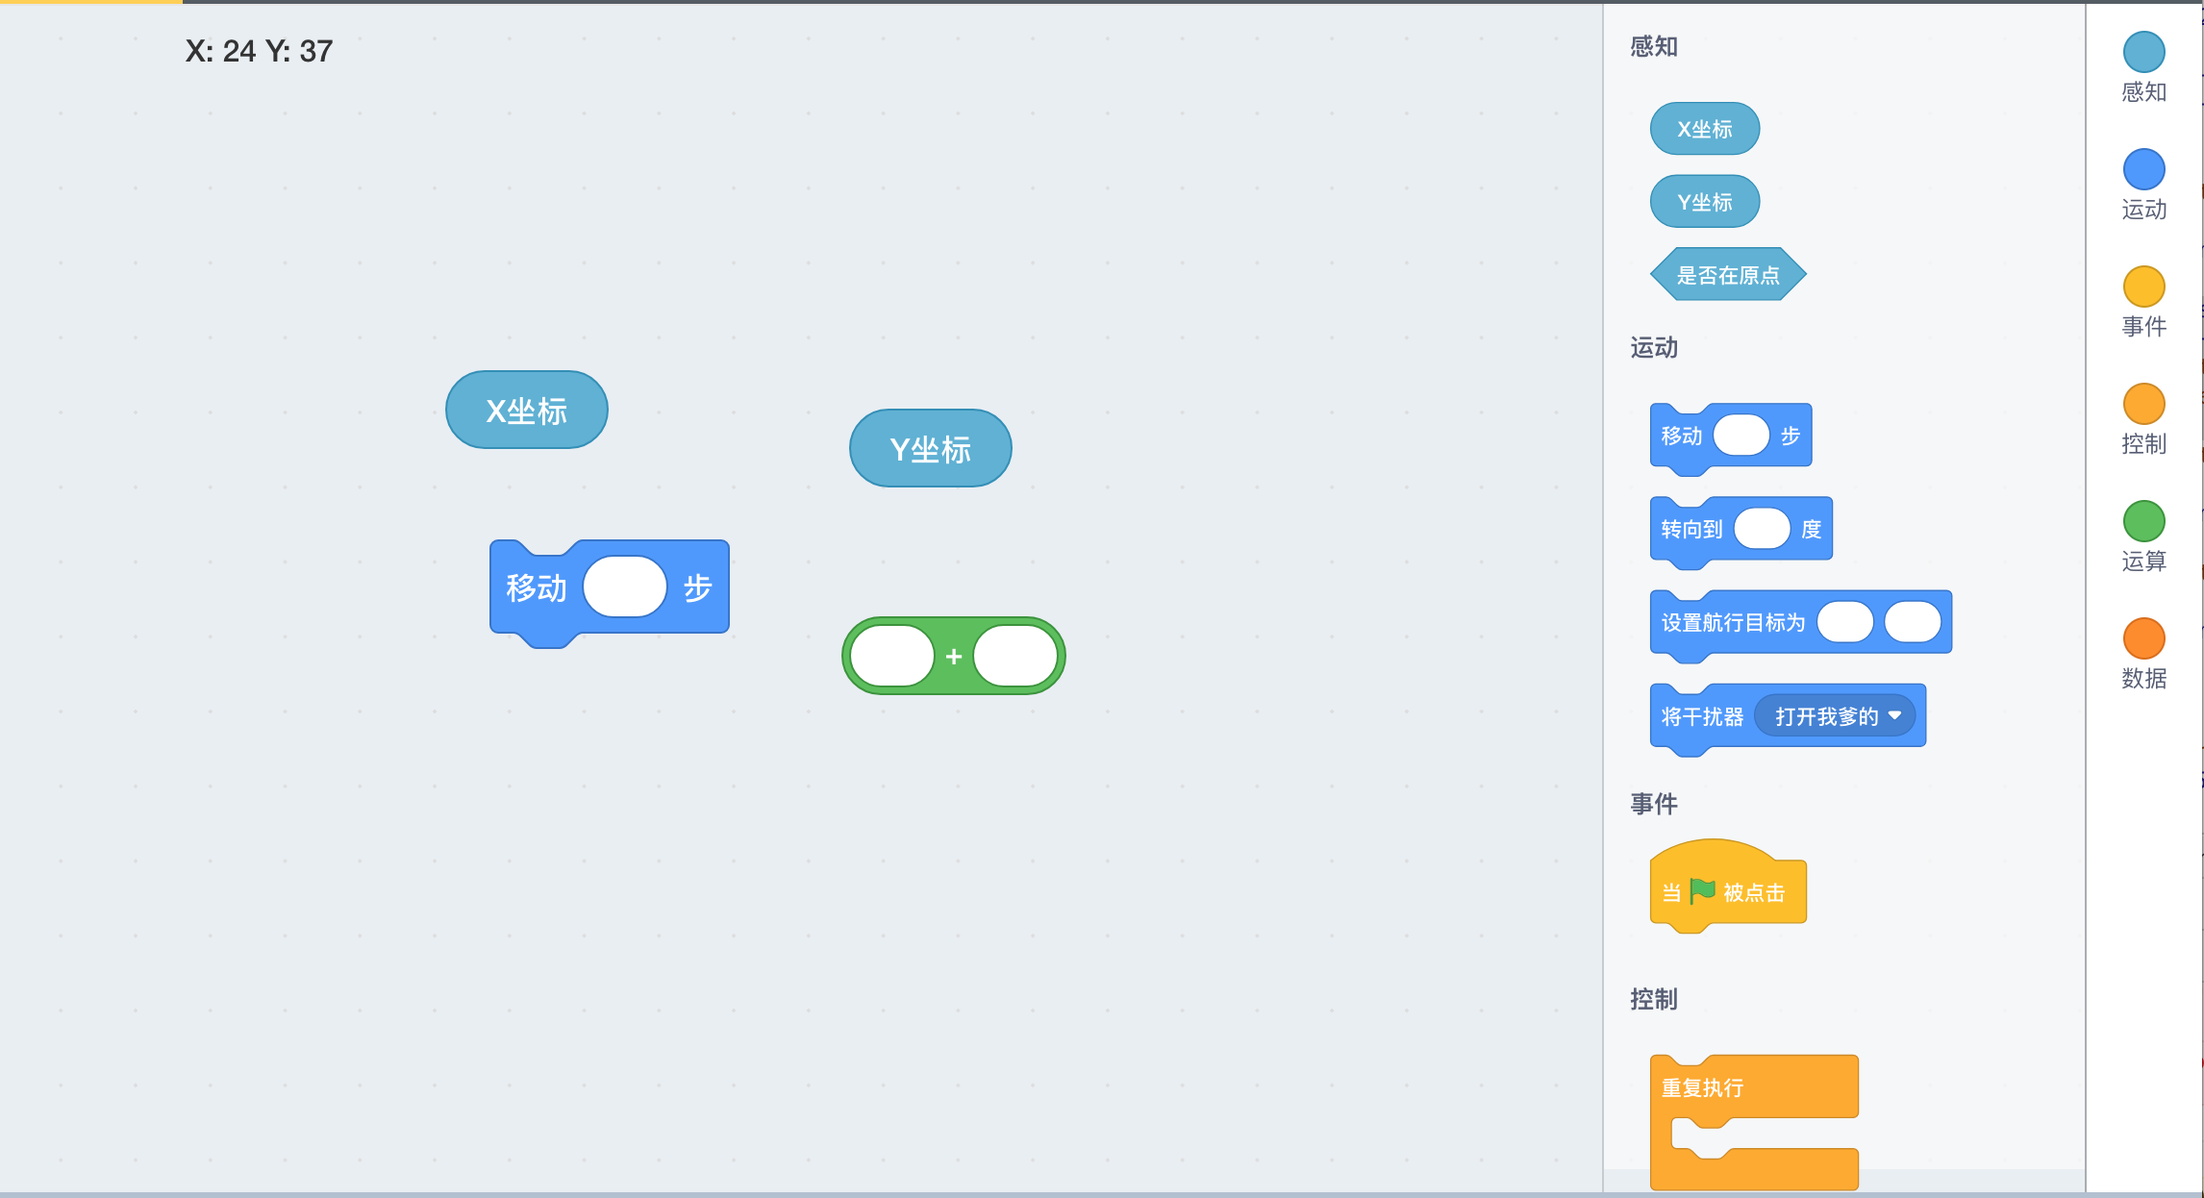
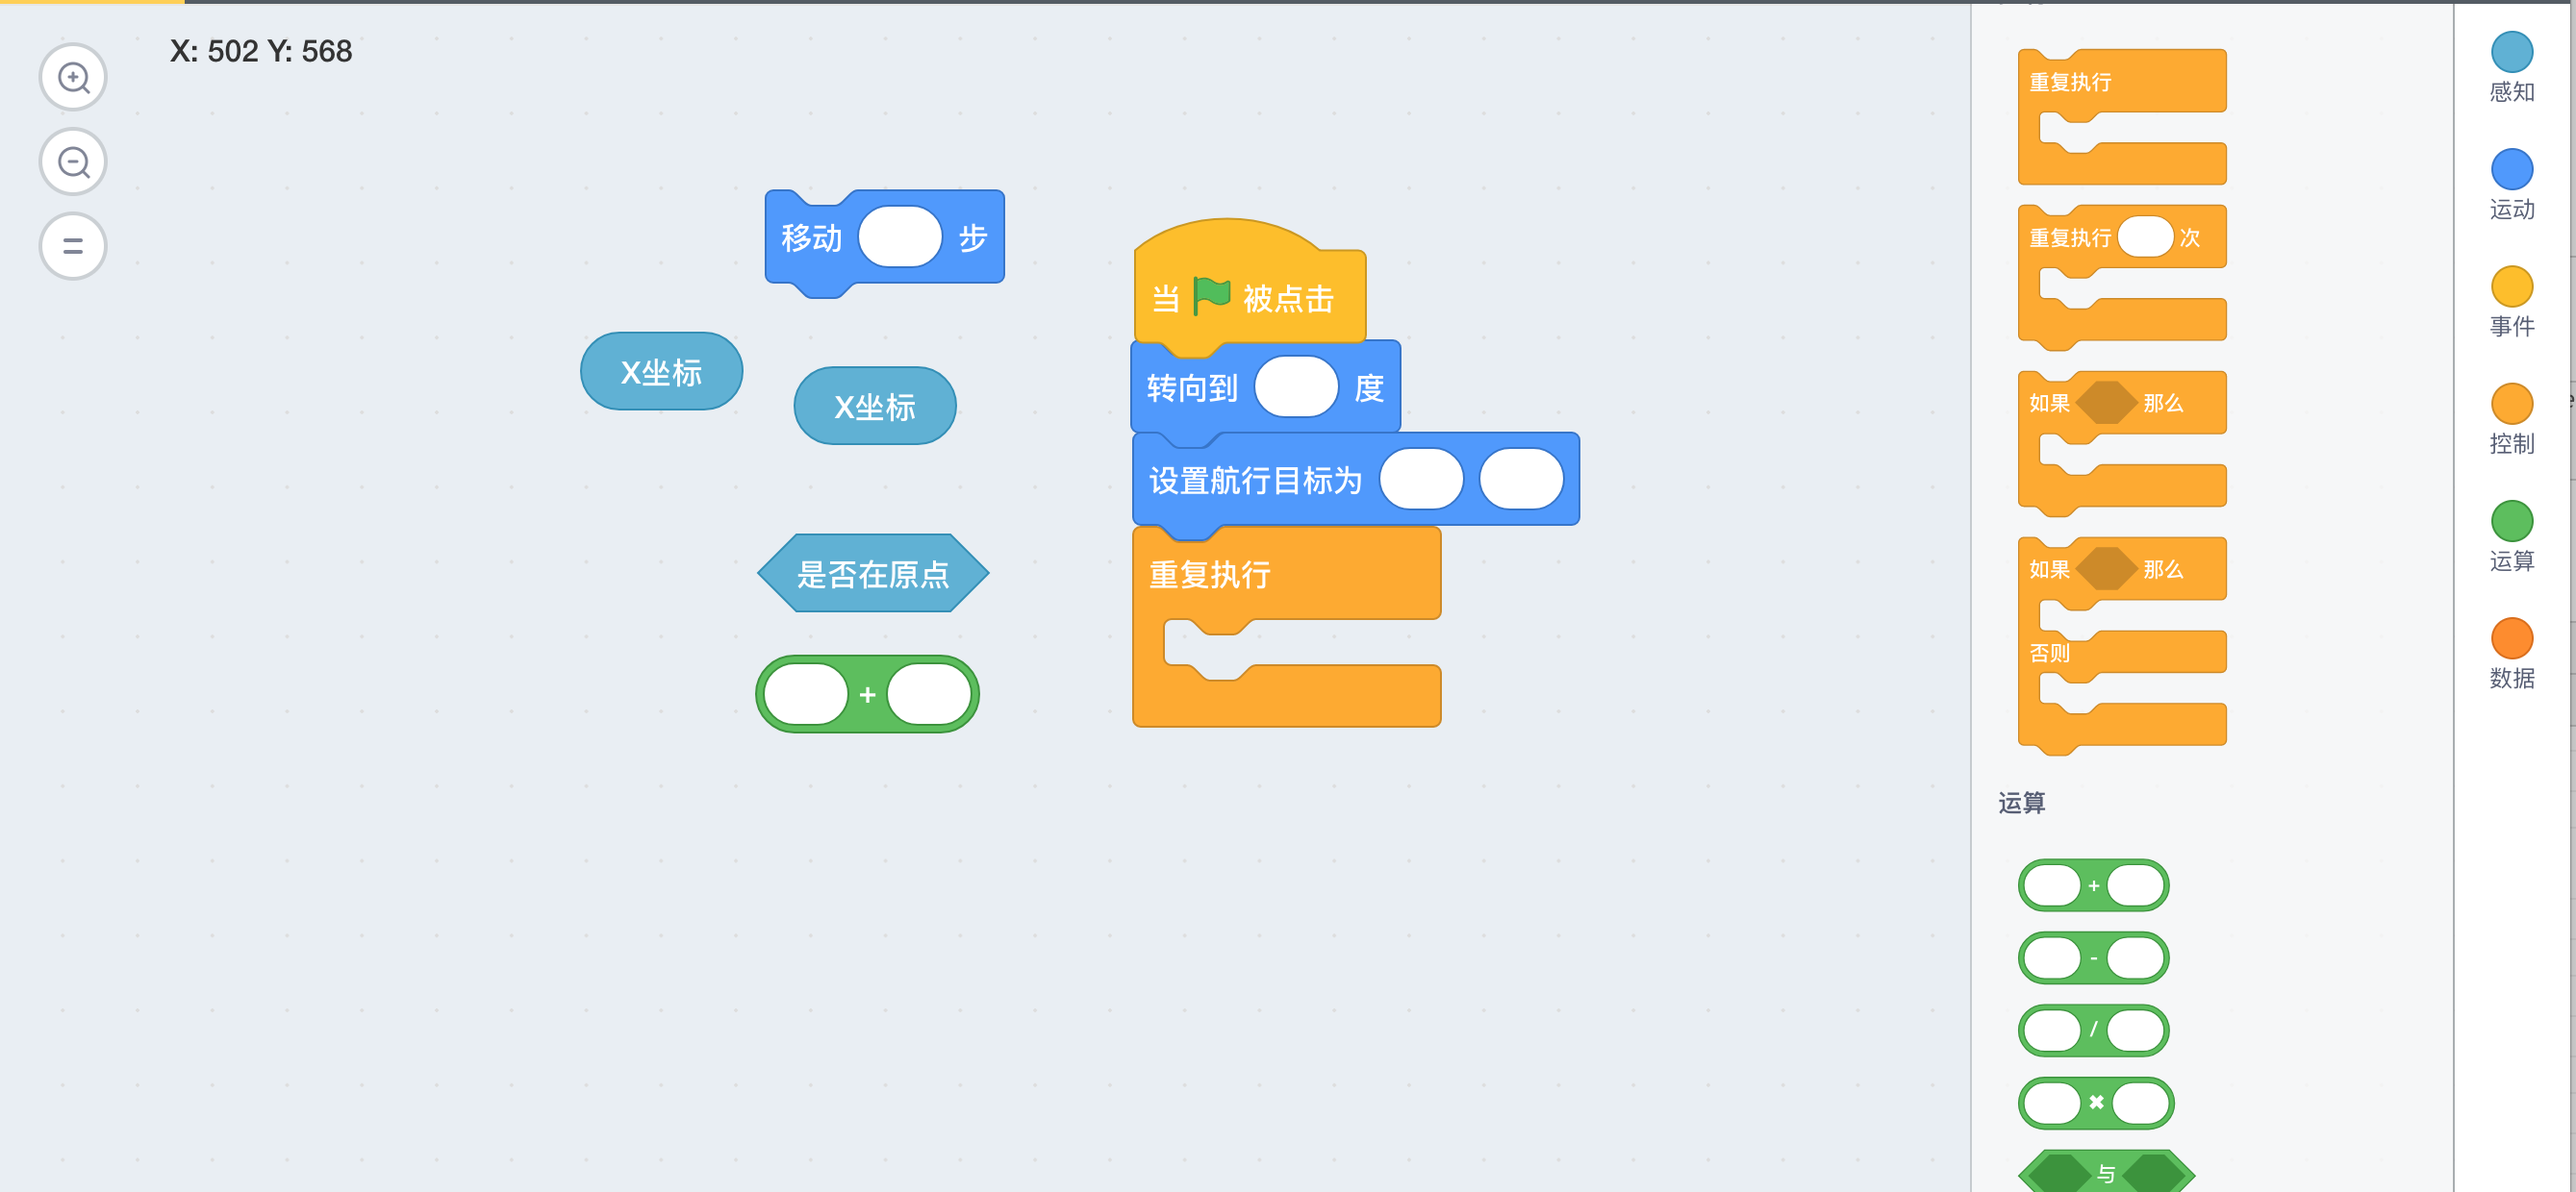
实现工具栏拖放

diff --git a/client/src/scratch.js b/client/src/scratch.js
@@ -1279,6 +1279,30 @@ class BlockInstance {
       translatey: yuchg.isNumber(this.state.y) ? this.state.y : 0
     }])
   }
+
+  // next为true时，删除所有nextBlock
+  // 为false时，仅删除自己，nextBlock上移
+  clear(next = true) {
+    // 删除子节点children
+    for (let c of this.children.values()) {
+      c.clear()
+    }
+    // 删除next
+    if (this.next) {
+      if (next) {
+        this.next.clear()
+      } else {
+        this.next.prev = this.prev
+      }
+    }
+    let index = this.proto.instances.indexOf(this)
+    if (index >= 0) {
+      this.proto.instances.splice(index, 1)
+    }
+    this.elem.remove()
+
+    // 通知父对象更新
+  }
 }
 
 /*
@@ -2268,7 +2292,7 @@ class Panel {
     this.marker = null
 
     this.registries = {} // block注册列表
-    this.instances = [] // block实例数组
+    this.instances = {} // block实例数组
 
     this.grapPoint = {
       x: 0,
@@ -2315,13 +2339,15 @@ class Panel {
       this.lastPoint.x = event.pageX
       this.lastPoint.y = event.pageY
       this.startDrag = true
-      return false
+      this.dom.$flyout.css('pointer-events', 'none')
     }).on('mousemove', function () {
+      logger.debug('canvas mousemove')
       let X = $(this).offset().left
       let Y = $(this).offset().top
+      let cm = that.dom.$canvas[0].getCTM()
       that.updateInfo({
-        x: event.pageX - X,
-        y: event.pageY - Y
+        x: event.pageX - X - Number(cm.e),
+        y: event.pageY - Y - Number(cm.f)
       })
 
       let deltaX = event.pageX - that.lastPoint.x
@@ -2346,19 +2372,30 @@ class Panel {
         // 根据鼠标位置调整surface
         that.dom.$dragsurface.attr('style', 'display: block; transform: translate3d(' + deltaX + 'px,' + deltaY + 'px,0px)')
       }
-    }).on('mouseup mouseleave', function () {
+    }).on('mouseup mouseleave', () => {
       that.startDrag = false
+      this.dom.$flyout.css('pointer-events', 'auto')
+
       if (that.$selected && that.$selected.hasClass('ycBlockSelected')) {
         if (that.$selected.hasClass('ycBlockDragging')) {
           // 插入占位
           var $marker = that.marker.element()
-          that.$selected.insertBefore($marker)
-          that.$selected.removeClass('ycBlockDragging')
+          // 判断是否在Flyout区域
+          if (this.isInFlyoutRegion(event.pageX, event.pageY)) {
+            // 删除Block实例
+            let uid = this.$selected.attr('data-uid')
+            this.removeBlock(uid)
+            that.$selected = null
+            return
+          } else {
+            that.$selected.insertBefore($marker)
+            that.$selected.removeClass('ycBlockDragging')
+            // 更新变换
+            let dm = that.dom.$dragsurface.css('transform').replace(/[^0-9\-,]/g, '').split(',')
+            let m = that.$selected[0].getCTM()
+            that.$selected.attr('transform', 'translate(' + (Number(dm[4]) + that.grapPoint.x) / Number(m.a) + ',' + (Number(dm[5]) + that.grapPoint.y) / Number(m.d) + ')')
+          }
           $marker.remove()
-          // 更新变换
-          let dm = that.dom.$dragsurface.css('transform').replace(/[^0-9\-,]/g, '').split(',')
-          let m = that.$selected[0].getCTM()
-          that.$selected.attr('transform', 'translate(' + (Number(dm[4]) + that.grapPoint.x) / Number(m.a) + ',' + (Number(dm[5]) + that.grapPoint.y) / Number(m.d) + ')')
           that.dom.$dragsurface.css('display', 'none;')
         }
         that.$selected.removeClass('ycBlockSelected')
@@ -2370,10 +2407,9 @@ class Panel {
       this.flyoutlastPoint.x = event.pageX
       this.flyoutlastPoint.y = event.pageY
       this.flyoutstartDrag = true
-      return false
     }).on('mousemove', function () {
       let deltaY = event.pageY - that.flyoutlastPoint.y
-      if (!that.$flyoutselected && that.flyoutstartDrag) {
+      if (!that.$flyoutselected && that.flyoutstartDrag) { // 上下滚动拖放
         that.flyoutlastPoint.x = event.pageX
         that.flyoutlastPoint.y = event.pageY
         let m = that.dom.$flyoutcanvas[0].getCTM()
@@ -2392,11 +2428,86 @@ class Panel {
         let trans = 'translate(0,' + y + ') ' + 'scale(' + that.flyoutZoomFactor + ')'
         that.setCanvasTransfrom(that.dom.$flyoutcanvasList, trans)
 
-      } else if (that.$flyoutselected && that.$flyoutselected.hasClass('ycBlockSelected')) {}
-    }).on('mouseup mouseleave', function () {
-      that.flyoutstartDrag = false
-      if (that.$flyoutselected && that.$flyoutselected.hasClass('ycBlockSelected')) {}
+      } else if (that.$flyoutselected) { // 拖动Block
+        // 获取选中的类型
+        let bid = that.$flyoutselected.attr('data-id')
+        let proto = that.registries[bid]
+
+        // 根据当前鼠标位置计算在SVG中位置
+        let X = that.dom.$svg.offset().left
+        let Y = that.dom.$svg.offset().top
+        let cm = that.dom.$canvas[0].getCTM()
+
+        // 根据Block尺寸调整位置
+        let bbox = that.$flyoutselected[0].getBBox()
+        that.grapPoint.x = event.pageX - bbox.width / 2 - X + bbox.x - Number(cm.e)
+        that.grapPoint.y = event.pageY - bbox.height / 2 - Y + bbox.y - Number(cm.f)
+   
+        logger.debug('drag ==', X, Y, event.pageX, event.pageY, bbox, that.grapPoint)
+
+        let newInst = that.addBlock({
+          type: proto.def.id,
+          state: {
+            x: that.grapPoint.x,
+            y: that.grapPoint.y
+          }
+        }, that.dom.$dragcanvas)
+
+        that.$selected = newInst.element()
+        that.$selected.addClass('ycBlockSelected')
+        that.$selected.addClass('ycBlockDragging')
+
+        
+        // 插入占位(在末尾添加)
+        var $marker = that.marker.element()
+        that.dom.$canvas.append($marker)
+
+        that.$flyoutselected = null
+        that.lastPoint.x = event.pageX
+        that.lastPoint.y = event.pageY
+        let deltaX = event.pageX - that.lastPoint.x
+        let deltaY = event.pageY - that.lastPoint.y
+        // 根据鼠标位置调整surface
+        that.dom.$dragsurface.attr('style', 'display: block; transform: translate3d(' + deltaX + 'px,' + deltaY + 'px,0px)')
+        that.dom.$dragsurface.css('display', 'block')
+  
+        that.startDrag = true
+        that.dom.$flyout.css('pointer-events', 'none')
+      }
+    }).on('mouseup mouseleave', () => {
+      this.flyoutstartDrag = false
+      if (this.$flyoutselected && this.$flyoutselected.hasClass('ycBlockSelected')) {
+
+      }
     })
+  }
+
+  // point 为屏幕坐标位置
+  isInFlyoutRegion(x, y) {
+    const dom = this.dom
+    let $bg = dom.$flyout.find('.ycBlockFlyoutBackground')
+    let bbox = $bg[0].getBBox()
+    let ctm = $bg[0].getScreenCTM()
+
+    let left = ctm.e + bbox.x
+    let right = left + bbox.width
+    let top = ctm.f + bbox.y
+    let bottom = top + bbox.height
+    return x >= left && x <= right && y >= top && y <= bottom
+  }
+
+  // point 为屏幕坐标位置
+  flyoutToCanvasRegion(x, y) {
+    const dom = this.dom
+    let $bg = dom.$flyout.find('.ycBlockFlyoutBackground')
+    let bbox = $bg[0].getBBox()
+    let ctm = $bg[0].getScreenCTM()
+
+    let left = ctm.e + bbox.x
+    let right = left + bbox.width
+    let top = ctm.f + bbox.y
+    let bottom = top + bbox.height
+    return x >= left && x <= right && y >= top && y <= bottom
   }
 
   updateInfo(info) {
@@ -2485,16 +2596,14 @@ class Panel {
       $(this).mousedown(function () {
         if (index === 0) {
           that.currentZoomFactor -= that.zoomRate
-        }
-        else if (index === 1) {
+        } else if (index === 1) {
           that.currentZoomFactor += that.zoomRate
-        }
-        else if (index === 2) {
+        } else if (index === 2) {
           that.currentZoomFactor = 1.0
           that.setCanvasTransfrom(that.dom.$canvasList, 'translate(0,0) scale(1.0)')
           return
         }
-       
+
         let m = that.dom.$canvas[0].getCTM()
         let trans = 'translate(' + (Number(m.e)) + ',' + (Number(m.f)) + ') ' + 'scale(' + that.currentZoomFactor + ')'
         that.setCanvasTransfrom(that.dom.$canvasList, trans)
@@ -2507,7 +2616,8 @@ class Panel {
     var dom = this.dom
     var registries = this.registries
     let zoom = this.flyoutZoomFactor
- 
+    let that = this
+
     function createMenu(key, offset) {
       var cate = categories[key]
       if (!cate) {
@@ -2523,9 +2633,9 @@ class Panel {
       let trans = 'translate(0,' + (-offset * zoom) + ') scale(' + zoom + ')'
       $menuitem.on('click', function () {
         d3.selectAll('.ycBlockFlyout>.ycBlockWorkspace>g')
-        .transition()
-        .duration(500)
-        .attr('transform', trans)
+          .transition()
+          .duration(500)
+          .attr('transform', trans)
         logger.debug('click ----- ' + $(this).data('id'))
       })
 
@@ -2563,8 +2673,15 @@ class Panel {
             if (proto && proto.prototypeElement) {
               let $elem = $(proto.prototypeElement).clone(true)
               $elem.attr('transform', `translate(36, ${offsety})`)
+              $elem.attr('data-id', block)
               dom.$flyoutcanvas.append($elem)
               offsety += (proto.def.state.outerHeight + 16)
+
+              // 添加事件
+              $elem.on('mousedown', function () {
+                that.$flyoutselected = $(this)
+              }).on('mouseup', function () {})
+
             } else {
               logger.debug('block registry is corrupted:' + block)
             }
@@ -2588,8 +2705,29 @@ class Panel {
     let prototype = this.registries[type]
     // 放入队列中
     let inst = prototype.instance(state)
-    this.instances.push(inst)
+    this.instances[inst.uid] = inst
     return inst
+  }
+
+  removeBlock(uid) {
+    if (!yuchg.isString(uid)) {
+      logger.warn('removeBlock failed: wrond uid - ', uid)
+      return
+    }
+    let inst = this.instances[uid]
+    if (!inst) {
+      logger.warn('removeBlock failed: can not found uid - ', uid)
+      return
+    }
+
+    //let m = this.dom.$dragcanvas[0].getCTM()
+    //d3.select('.ycBlockDragSurface>g')
+    //.transition()
+    //.duration(500)
+    //.attr('transform', 'scale(0.001)')
+
+    inst.clear()
+    delete this.instances[uid]
   }
 
   addBlock(option, parent) {
@@ -2603,6 +2741,7 @@ class Panel {
     }
 
     let $elem = inst.element()
+    $elem.attr('data-uid', inst.uid)
 
     var that = this
     var dom = this.dom
@@ -2611,22 +2750,18 @@ class Panel {
       that.$selected = $(this)
       let m = this.getCTM()
       let pm = dom.$canvas[0].getCTM()
-
-      that.lastPoint.x = event.pageX
-      that.lastPoint.y = event.pageY
       that.grapPoint.x = (Number(m.e) - Number(pm.e))
       that.grapPoint.y = (Number(m.f) - Number(pm.f))
       that.$selected.addClass('ycBlockSelected')
-      return false
-    }).on('mouseup', function () {
-
-    })
+    }).on('mouseup', function () {})
 
     if (parent) {
       parent.append(inst.element())
     } else {
       this.dom.$canvas.append(inst.element())
     }
+
+    return inst
   }
 
   addBlocks(blocks) {

diff --git a/client/src/components/Scratch.vue b/client/src/components/Scratch.vue
@@ -299,28 +299,13 @@ export default {
     });
 
     editor.addBlock({
-      type: "locationy",
+      type: "locationx",
       state: {
         x: 300,
         y: 200
       }
     });
 
-    editor.addBlock({
-      type: "add",
-      state: {
-        x: 400,
-        y: 500
-      }
-    });
-
-    editor.addBlock({
-      type: "move",
-      state: {
-        x: 300,
-        y: 300
-      }
-    });
   },
   methods: {}
 };

diff --git a/README.md b/README.md
@@ -1,7 +1,7 @@
 # yuchang
 模仿Scratch的基于Vue的可视化脚本编辑工具，支持自定义语法，导出为JSON格式、JS代码，主要特点：
-（1）完全通过JS定义脚本Block，可自由扩展，甚至创建一套全新Block，可以实现各种可视化脚本应用，不仅仅用于编程
-（2）支持导出插件，可自行实现将可视化模型导出为想要的文件，例如JSON、JS代码、Word、HTML等
++（1）完全通过JSON定义脚本Block，可自由扩展，甚至创建一套全新Block，可以实现各种可视化脚本应用，不仅仅用于编程
++（2）支持导出插件，可自行实现将可视化模型导出为想要的文件，例如JSON、JS代码、Word、HTML等
 
 Vue主要用于实现SPA框架，Scratch编辑器能够很容易脱离Vue环境，应用到其他Web应用中
 
